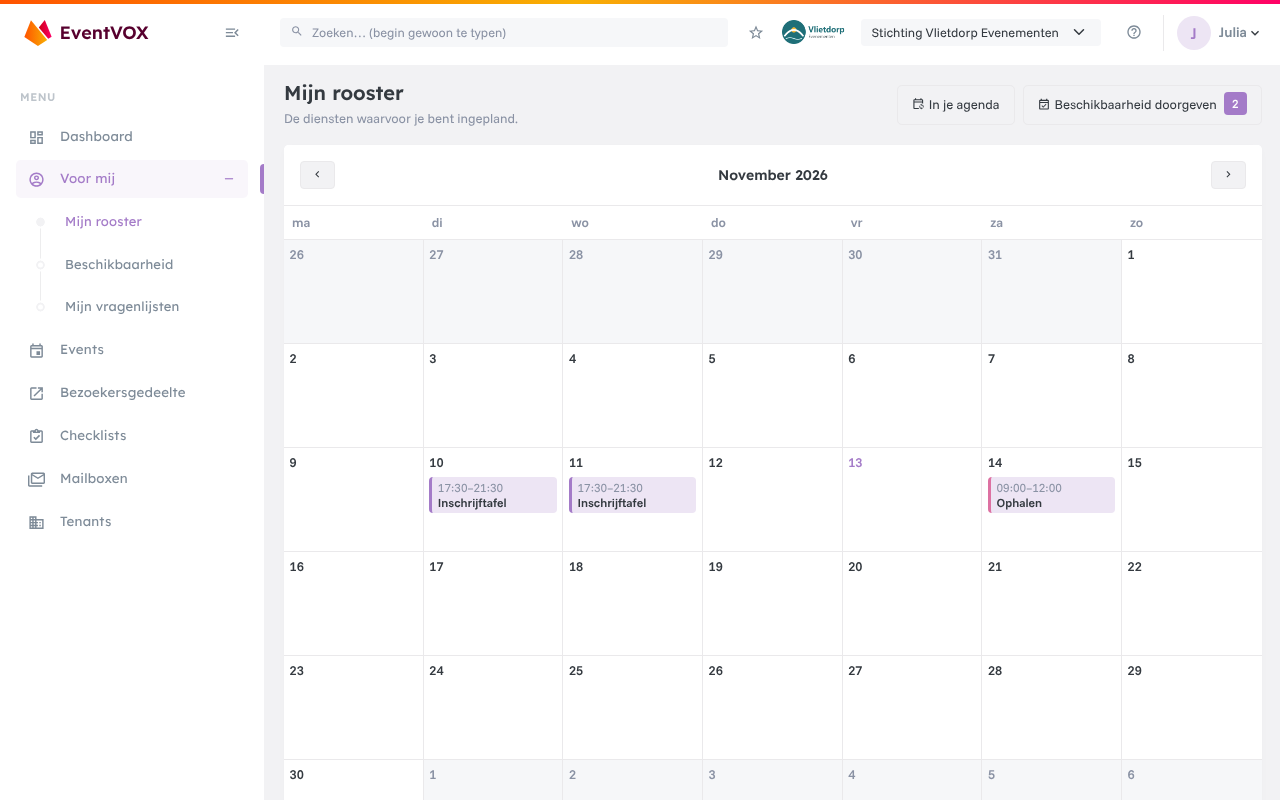
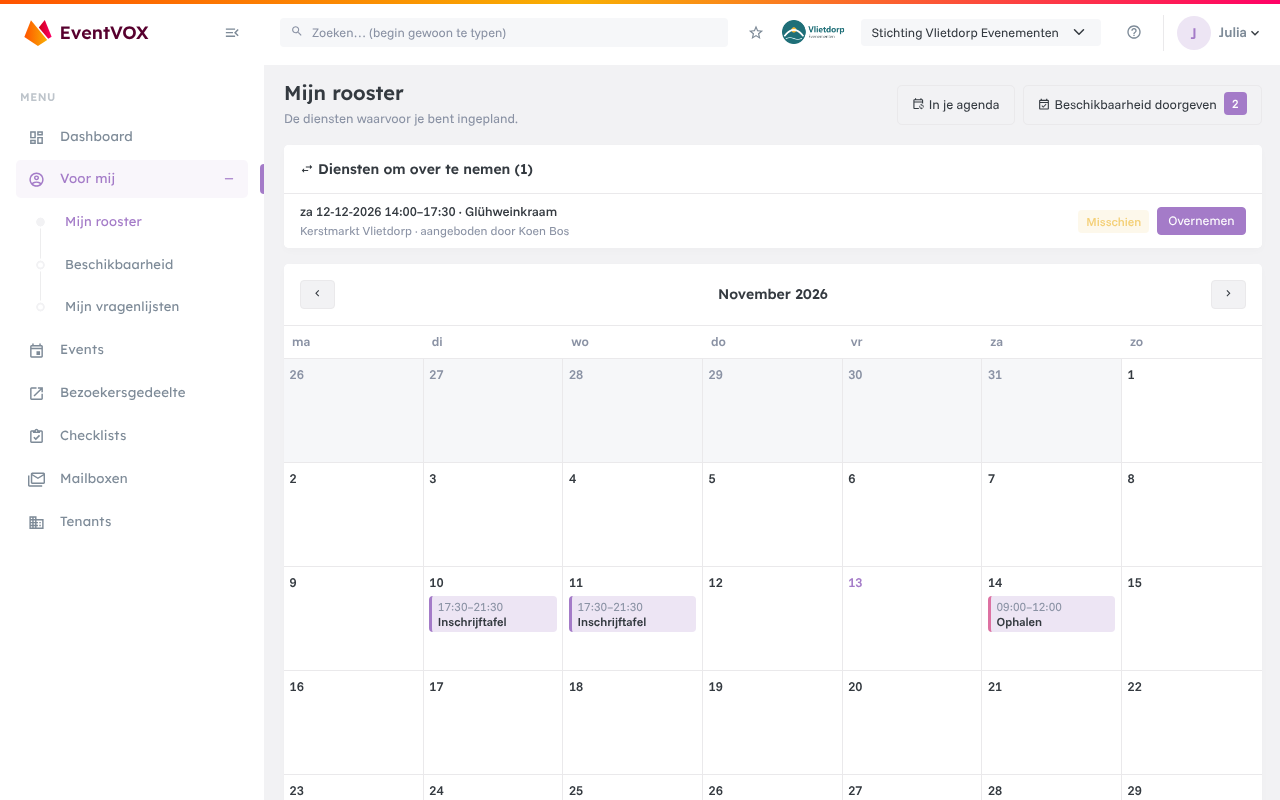
Nieuwe screenshots: diensten ruilen, vanaf leeftijd, per vrijwilliger; de demo biedt een dienst aan
Claude-Session: https://claude.ai/code/session_01XbTwMg7wxJwi4JQw7oTKWb

diff --git a/tools/screenshots/seed.js b/tools/screenshots/seed.js
@@ -219,22 +219,22 @@ async function scanning(t) {
 async function volunteersWork(t) {
     // Tasks ("diensten") and the walk's roster with its four evenings
     // With the standard number of people per time slot (taken over when linked to a roster)
-    const task = async (name, description, needed = null) => uuidOf(await api('POST', '/schedules/tasks', { token: t, body: { name, description, default_needed: needed } }));
+    const task = async (name, description, needed = null, minAge = null) => uuidOf(await api('POST', '/schedules/tasks', { token: t, body: { name, description, default_needed: needed, min_age: minAge } }));
     state.tasks = {
         ehbo: await task('EHBO', 'EHBO-post bij de start, met de EHBO-terminal.', 1),
         desk: await task('Inschrijftafel', 'Polsbandjes scannen en vragen beantwoorden bij de start.', 2),
         post: await task('Stempelpost', 'Post Molenweg: stempelen en water uitdelen.', 2),
         traffic: await task('Verkeersregelaar', 'Oversteekplaatsen begeleiden (hesje en bordje bij de inschrijftafel).', 3),
         build: await task('Opbouw', 'Kramen en verlichting opbouwen op het Kerkplein.', 4),
-        bar: await task('Glühweinkraam', 'Glühwein en warme chocolademelk schenken.', 2),
+        bar: await task('Glühweinkraam', 'Glühwein en warme chocolademelk schenken.', 2, 18),
         pickup: await task('Ophalen', 'Met de bus spullen ophalen bij de aangemelde adressen.', 2),
     };
     // Service groups: the standard sets of the two kinds of events
     const group = async (name, tasks) => api('POST', '/schedules/task-groups', { token: t, body: { name, task_uuids: tasks } });
     await group('Wandelvierdaagse', [state.tasks.ehbo, state.tasks.desk, state.tasks.post, state.tasks.traffic]);
     await group('Kerstmarkt', [state.tasks.build, state.tasks.bar, state.tasks.pickup]);
-    const schedule = async (event, name, tasks) => {
-        const id = uuidOf(await api('POST', '/schedules', { token: t, body: { event_uuid: event, name, availability_open: true, published: true } }));
+    const schedule = async (event, name, tasks, extra = {}) => {
+        const id = uuidOf(await api('POST', '/schedules', { token: t, body: { event_uuid: event, name, availability_open: true, published: true, ...extra } }));
         await api('PUT', `/schedules/${id}/tasks`, { token: t, body: { task_uuids: tasks } });
         return id;
     };
@@ -246,7 +246,7 @@ async function volunteersWork(t) {
         state.slots.walk.push(await slot(state.schedules.walk, { starts_at: at(d, '17:30'), ends_at: at(d, '21:30'), note: i === 3 ? 'Avond 4 (intocht)' : `Avond ${i + 1}` }));
     }
     // The Kerstmarkt: building up, the stalls, and collection rounds for the jumble stall (Pick-Up)
-    state.schedules.xmas = await schedule(state.events.xmas, 'Kerstmarkt opbouw en kramen', [S.build, S.bar, S.pickup]);
+    state.schedules.xmas = await schedule(state.events.xmas, 'Kerstmarkt opbouw en kramen', [S.build, S.bar, S.pickup], { allow_swaps: true });
     state.slots.xmas = [
         await slot(state.schedules.xmas, { starts_at: at(XMAS, '09:00'), ends_at: at(XMAS, '13:00'), note: 'Opbouw' }),
         await slot(state.schedules.xmas, { starts_at: at(XMAS, '14:00'), ends_at: at(XMAS, '17:30'), note: 'Middag' }),
@@ -292,6 +292,11 @@ async function volunteersWork(t) {
     await api('PUT', `/schedules/${state.schedules.xmas}/planning`, { token: t, body: { slot_uuid: state.slots.xmas[0], employee_uuid: E[VOLUNTEERS[0].email], task_uuid: S.build } });
     await api('PUT', `/schedules/${state.schedules.xmas}/planning`, { token: t, body: { slot_uuid: state.slots.pickup[0], employee_uuid: E[VOLUNTEERS[0].email], task_uuid: S.pickup } });
     await api('PUT', `/schedules/${state.schedules.xmas}/planning`, { token: t, body: { slot_uuid: state.slots.pickup[0], employee_uuid: E[VOLUNTEERS[2].email], task_uuid: S.pickup } });
+
+    // Diensten ruilen: Koen offers his afternoon at the Glühweinkraam; Julia sees it in Mijn rooster
+    await api('PUT', `/schedules/${state.schedules.xmas}/planning`, { token: t, body: { slot_uuid: state.slots.xmas[1], employee_uuid: E[VOLUNTEERS[1].email], task_uuid: S.bar } });
+    const koen = (await api('POST', '/login', { body: { username: VOLUNTEERS[1].email, password: PASSWORD }, tenant: null })).token;
+    await api('POST', `/me/schedule/shifts/${state.slots.xmas[1]}/offer`, { token: koen, body: {} });
 
     // Addresses for the first collection round, some already done
     const streets = [['Molenweg', 12], ['Beukenlaan', 3], ['Kerkstraat', 27], ['Dijkweg', 8], ['Vlietkade', 41], ['Polderweg', 5], ['Raadhuisstraat', 16], ['Schoolstraat', 9]];

diff --git a/tools/screenshots/capture.js b/tools/screenshots/capture.js
@@ -155,6 +155,8 @@ const SHOTS = [
     { name: 'report-activity', url: 'reports-activity' },
     { name: 'report-scans', url: () => `reports-scans?checkpoint_uuid=${D.checkpoints.start}` },
     { name: 'report-volunteers', url: 'reports-volunteers' },
+    // Per volunteer: shifts this year and in all, the last and the next one
+    { name: 'report-volunteers-people', url: 'reports-volunteers', viewport: { width: 1280, height: 2400 }, element: '[data-people] .card' },
     // Organisatie
     { name: 'users', url: 'users' },
     { name: 'roles', url: 'roles' },
@@ -174,6 +176,9 @@ const SHOTS = [
     // Julia's Pick-Up round on her phone: the address cards
     { name: 'vrijw-pickup', who: 'julia', url: () => `my-schedule?shift=${D.slots.pickup[0]}`, viewport: { width: 390, height: 844 }, element: '[data-shot]', before: firstItems('Adressen', 3) },
     { name: 'vrijw-availability', who: 'julia', url: 'availability' },
+    // Diensten ruilen on Julia's phone: what colleagues offer, and her own shift with "Dienst aanbieden"
+    { name: 'vrijw-swap-offers', who: 'julia', url: 'my-schedule', viewport: { width: 390, height: 844 }, element: '[data-offers]' },
+    { name: 'vrijw-swap-offer', who: 'julia', url: () => `my-schedule?shift=${D.slots.xmas[0]}`, viewport: { width: 390, height: 844 } },
     // De webshop (Lucas, een koper)
     { name: 'shop-overview', who: 'lucas', url: '' },
     { name: 'shop-buy', who: 'lucas', url: 'buy' },

diff --git a/voor-vrijwilligers.md b/voor-vrijwilligers.md
@@ -62,9 +62,13 @@ aanbieden**. Je collega's zien hem dan en krijgen een melding. Tot iemand hem ov
 **Aanbod intrekken** trek je hem terug. Neemt een collega hem over, dan krijg je een melding en staat de dienst niet
 meer in je rooster.
 
+![Dienst aanbieden]({{ '/assets/images/vrijw-swap-offer.png' | relative_url }})
+
 Bieden collega's een dienst aan, dan staat bovenaan Mijn rooster **Diensten om over te nemen**. Klik op
 **Overnemen** en de dienst is van jou. Staat er een reden bij (je bent dan al ingepland, de dienst is voor een rol of
 vanaf een leeftijd), dan kun je hem niet overnemen.
+
+![Diensten om over te nemen]({{ '/assets/images/vrijw-swap-offers.png' | relative_url }})
 
 ### Diensten in je eigen agenda
 

diff --git a/rapportages.md b/rapportages.md
@@ -109,6 +109,9 @@ jaar. Daaronder staat wie dit jaar meehelpt.
 Onder **Per vrijwilliger** staat elke actieve vrijwilliger met het aantal diensten dit jaar en in totaal, de laatste en
 de volgende dienst en hoeveel jaar iemand al meehelpt. Zet **Alleen wie dit jaar nog niet heeft geholpen** aan om te zien
 wie je nog kunt vragen: wie dit jaar nog geen dienst had en ook niet is ingepland. Met **Excel** download je de tabel.
+Beide aantallen tellen alleen diensten die al zijn begonnen; een ingeplande dienst staat bij **Volgende dienst**.
+
+![Per vrijwilliger]({{ '/assets/images/report-volunteers-people.png' | relative_url }})
 
 ![Vrijwilligers]({{ '/assets/images/report-volunteers.png' | relative_url }})
 
